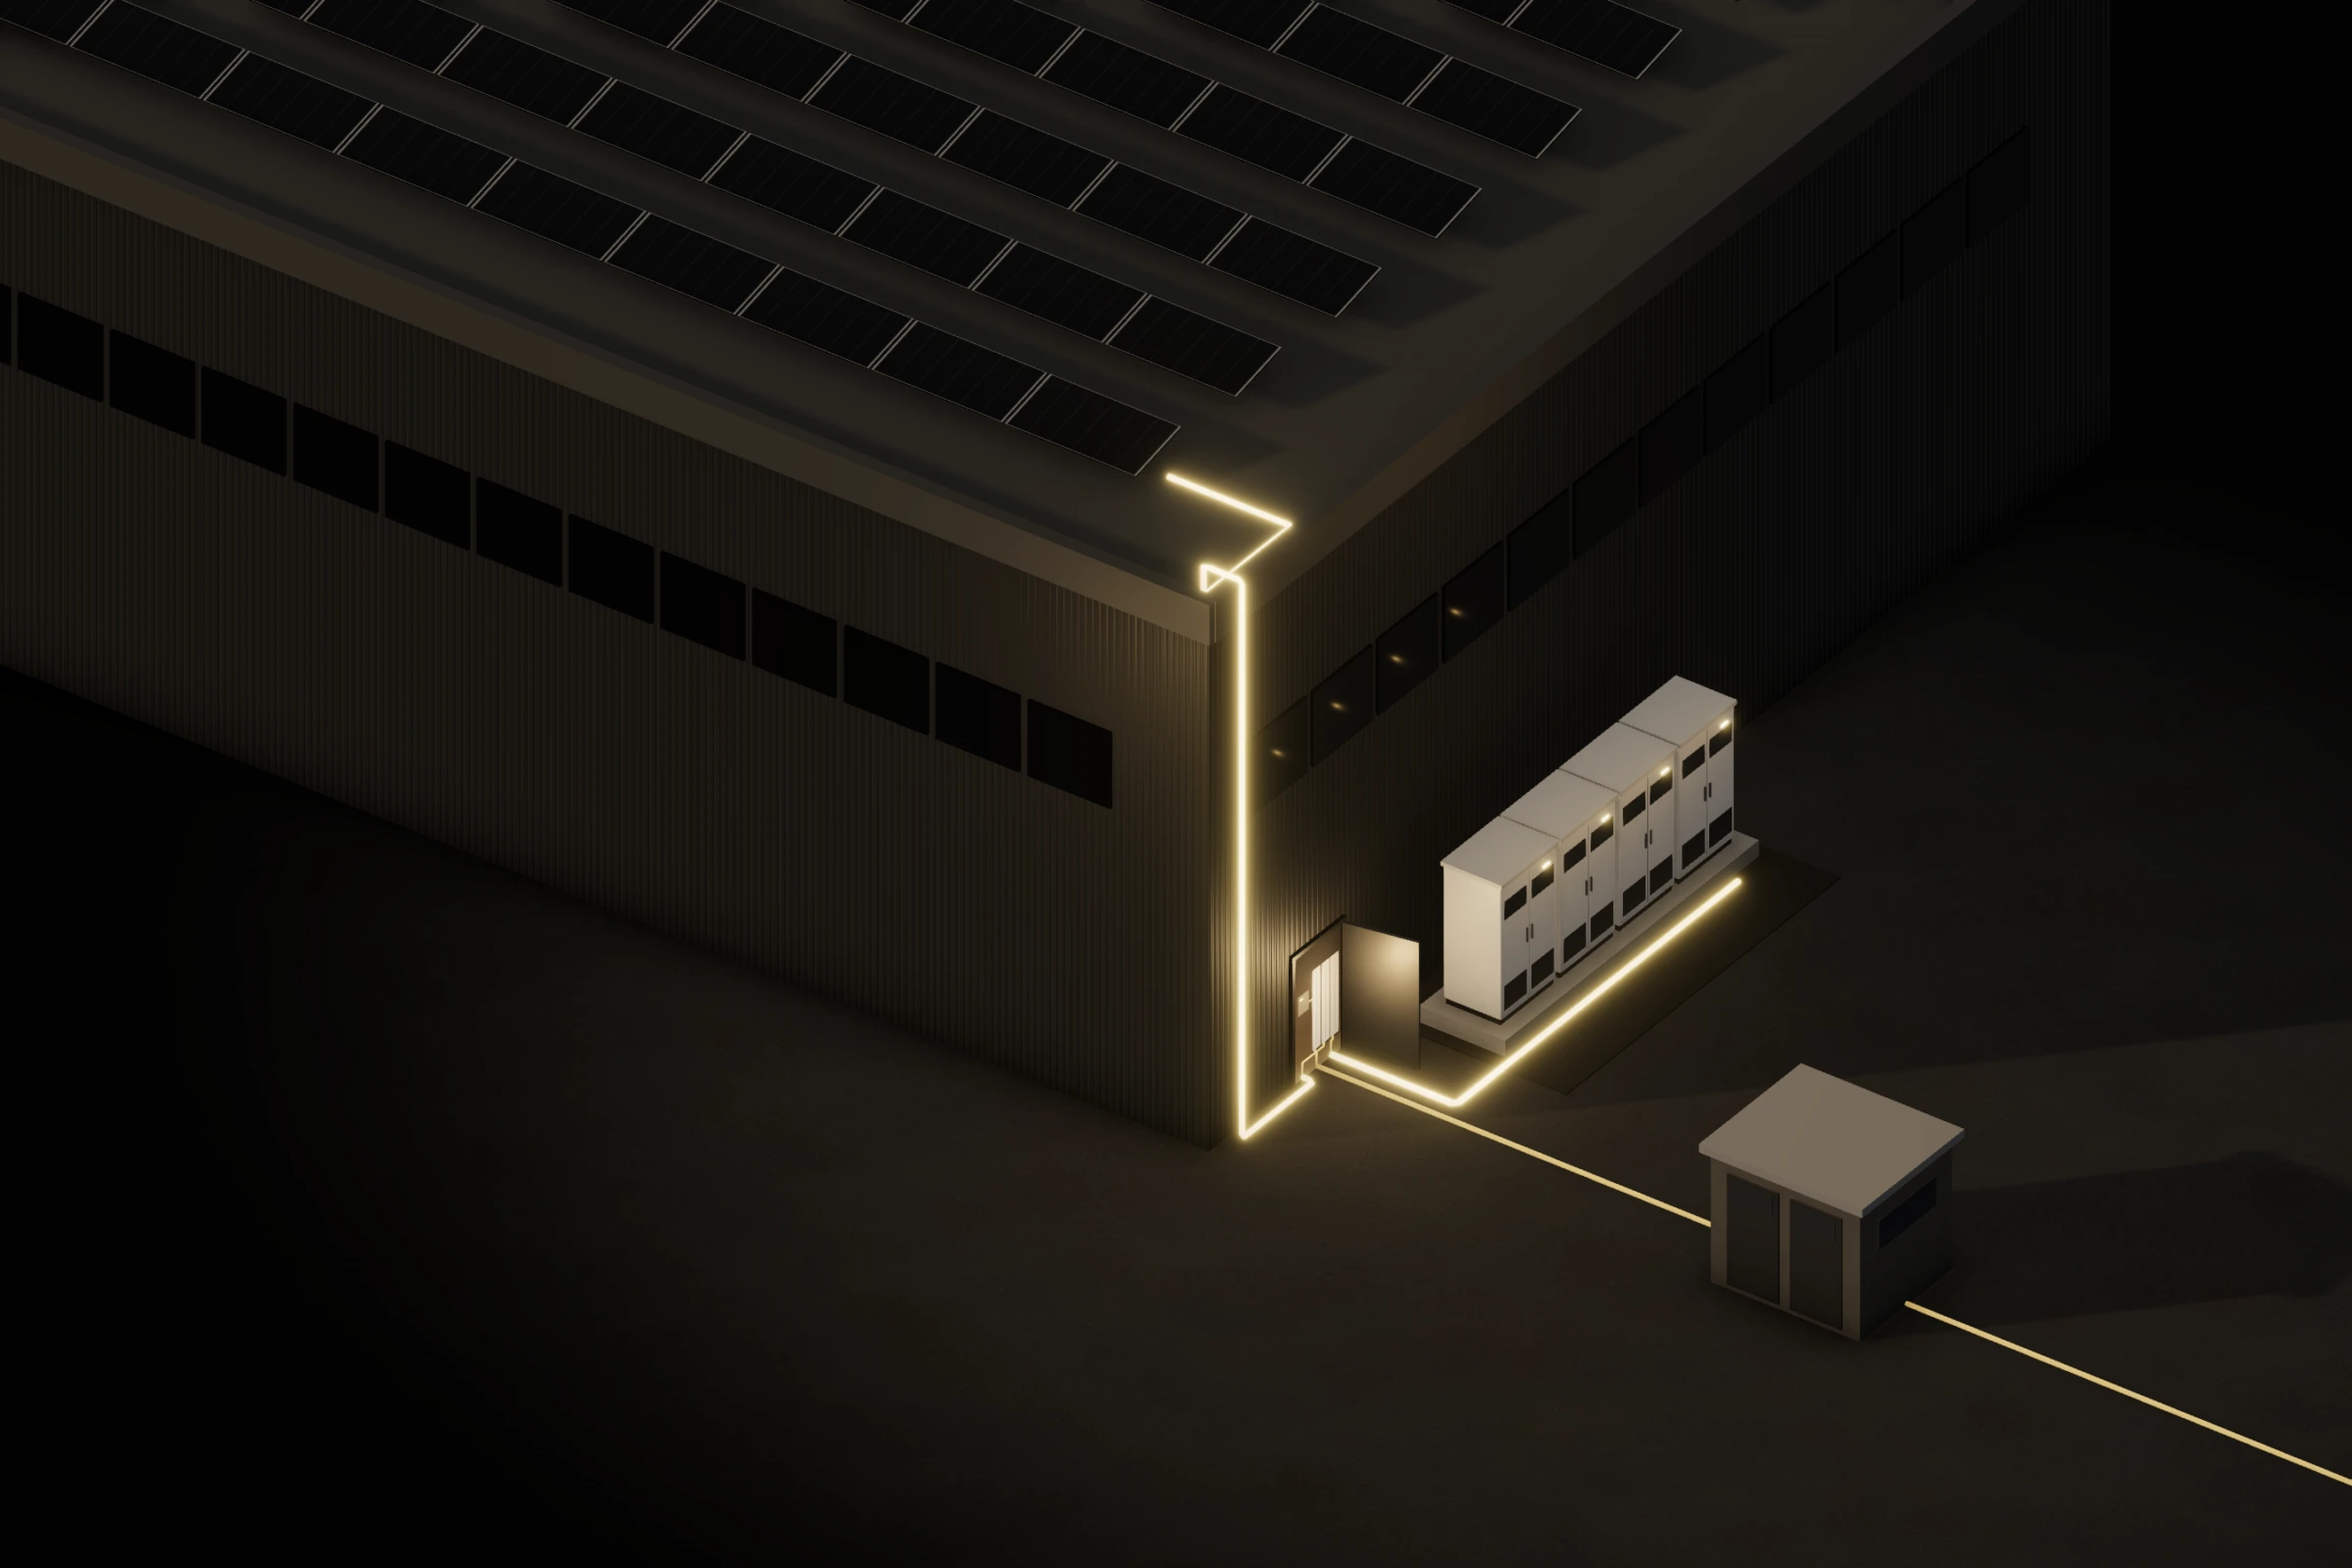
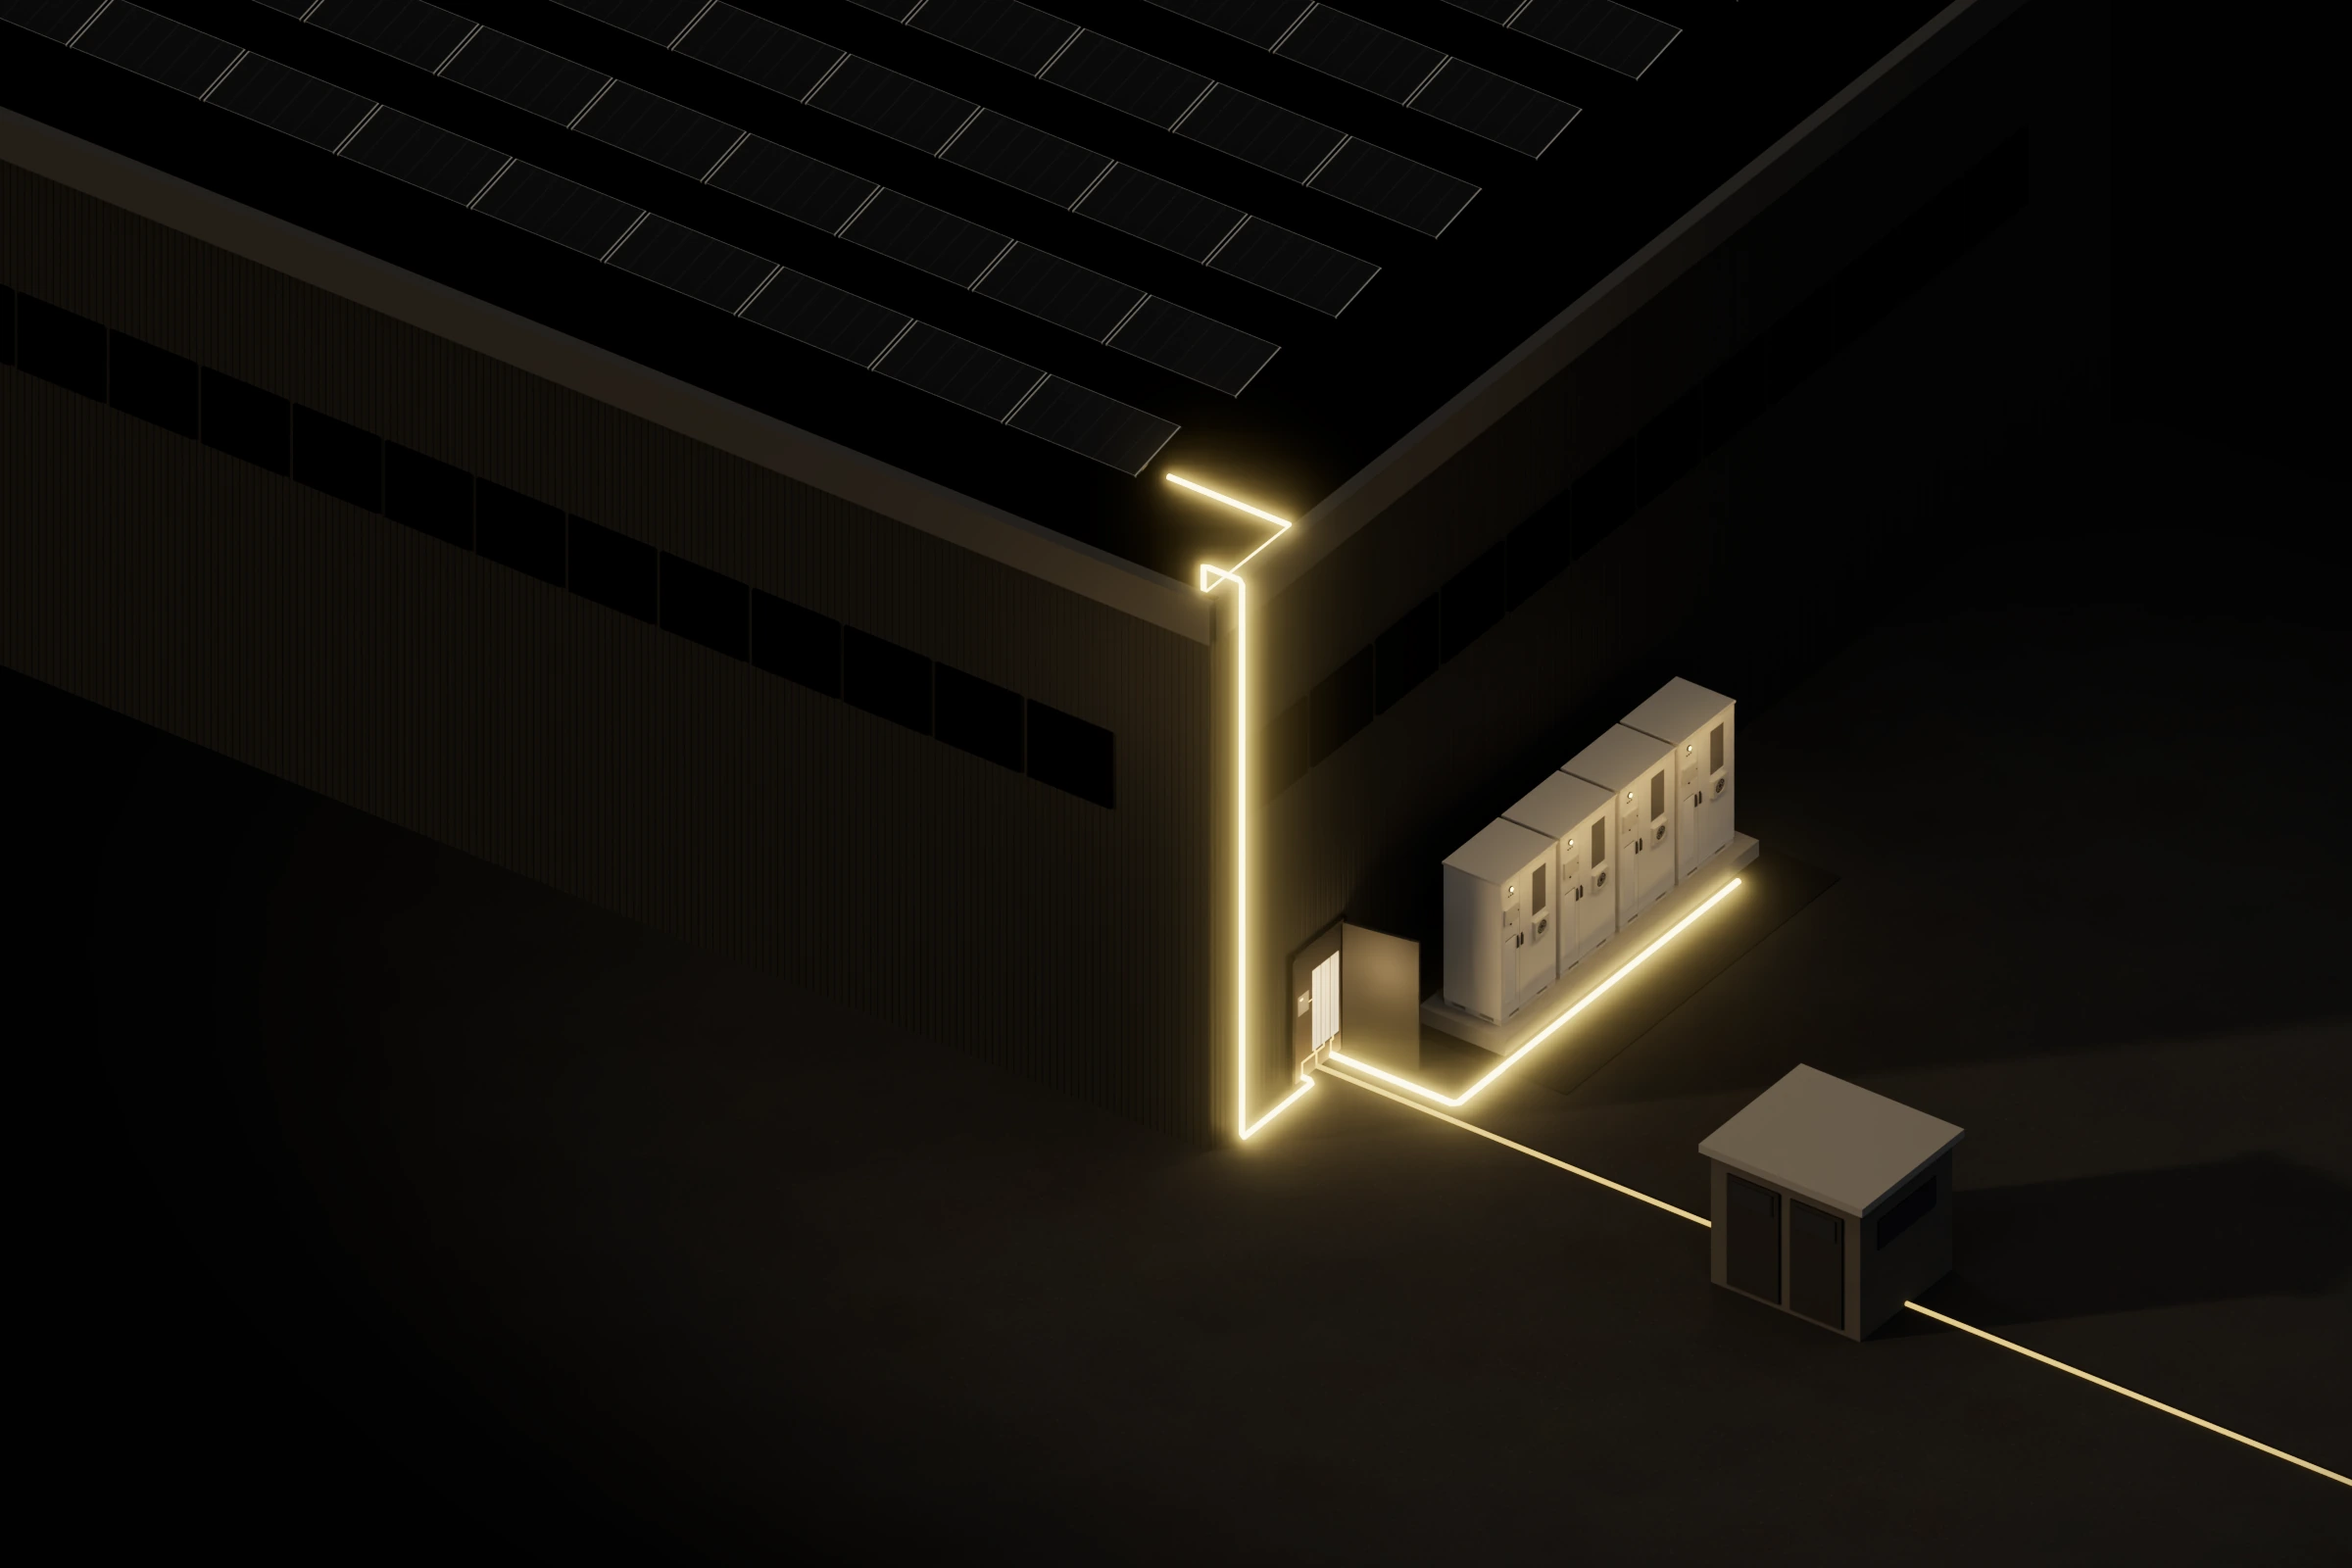
v49 (osa 4): herotausta Blender Cyclesilla (fysikaalinen valo) tarkoilla kaapeilla; CLAUDE.md v49
Sama näyttämö kuin v48 (rajaus, kaapelit, muuntamo, tarrojen ankkurit ennallaan), polunseuranta 64 näytettä + OIDN,
sävytys three.js:n ACES-käyrällä, valotus 1,12 ja hehku kuten ennen; kaappien edessä olevat valot ×4 (tuote erottuu).
Koot ja budjetit kuten render-stills: 2400 98,9 kt / 1800 64,3 kt / 1200 36,4 kt / m1170 38,7 kt / m780 21,5 kt.
Tarkistettu tuotannon otsakkeilla 1440 ja 390, FI ja ET: tarrat kohteissaan, 0 konsolivirhettä, ei vaakavieritystä.

Claude-Session: https://claude.ai/code/session_01R7oHPqGq3cgHRP3sEPpjA6

Changed region(s): [[0.0, 0.0, 0.8438, 0.75]]

diff --git a/CLAUDE.md b/CLAUDE.md
@@ -423,3 +423,43 @@ Madis 6.11.2026 (vestlus C, vastaukset kysymyksiin; päätöslokiin lisättävä
 - Perustelut, lähteet, päivitysrutiinit ja avoimet asiat: `docs/kaart/lugu.md`, osio "Uus kaart: sõlmed, aadressiotsing ja asukoha arvutused".
 - AVOIN: MML_API_KEY Netlifyyn (Madis); verkkoyhtiöiden tehomaksut lähteineen; Viron liittymissäännöt; etusivun 6. askeleen
   "ei jonota kantaverkkoon" -lause vs. Fingrid 1.6.2026 (≥ 2 MW, osin ≥ 1 MW) — perustajan päätös; natiivitarkistus uusille teksteille.
+
+## v49 — avoimen lähdekoodin 3D-putki: tarkka kaappi, Cycles-herotausta, kaappi 3D:nä ja AR:nä (Madis 6.11.2026 klo 0.58, haara v35-uusi-ilme)
+
+- Madis: kartoitettu avoimen lähdekoodin 3D-, kuva- ja videopino otetaan käyttöön tämän sivuston rakennuksessa heti.
+  Sivustolle kuuluvat osat: tarkka tuotemalli (build123d), fysikaalinen renderöinti (Blender Cycles) ja kaappi omalla pihalla
+  oikeassa koossa (model-viewer, AR). Generatiiviset kuva- ja videomallit eivät tule sivustolle: ne näyttäisivät asennuksia,
+  joita ei ole (sääntö: ei track record -väitteitä); omat kuvat tulevat kuvauksesta 9.–11.11.
+- Kaappi: `assets/3d/kaappi.glb` ← `scripts/3d/kaappi.py` (build123d Apache-2.0, trimesh MIT; `@gltf-transform/cli` weld +
+  quantize). Ulkomitat 1 350 × 1 010 × 2 450 mm (Ralosin infopaketti 26.8.2026); ulkonäkö Ralosin tuotekuvista: kapea
+  sähkötilan ovi (merkkivalo, kolme merkkilamppua, näytön kansi, avainkytkin, korkea säleikkö), leveä akkutilan ovi
+  (jäähdytysyksikön verkko ja puhallinkotelo), keskikahvat, pohjakehys trukkitaskuin, kattolevy, takasivun läpivientilevy
+  (v2.1 6.2). 7 916 kolmiota, KHR_mesh_quantization, 208 kt, ei logoja eikä tekstejä. Nodet `kaappi_<materiaali>`:
+  hero3d.js `cabinet()` liittää omat materiaalinsa nimillä (tausta/kriit/hämärä säilyvät; `kaappi_led` = merkkivalo,
+  userData.led). render-stills.mjs ja render-proc.mjs palvelevat nyt myös /assets/.
+- Herotausta `k-tausta-*`: Blender 5.0.1 Cycles samasta näyttämöstä (rajaus, kaapit, kaapelit, muuntamo ja tarrojen
+  ankkurit ennallaan; anchors-tiedostoa ei tarvitse ajaa):
+  `node scripts/blender/export-scene.mjs --modules <three-moduulit> --out X` (hero3d.js `?export=glb`: GLB + kamera, valot,
+  maan häivytys) → `python scripts/blender/render_hero.py --scene X/bg.glb --meta X/bg.json --out Y --samples 64 --world 0.8 --cab 4 --bloom 0.8`
+  (sama `bgm`:lle) → `python3 scripts/blender/encode_hero.py Y` (samat nimet, mitat ja tiedostobudjetit kuin render-stills).
+  Sävytys = three.js:n ACES-filmikäyrä, valotus 1,12 ja hehku (kynnys 0,85, voimakkuus 1,1), joten hyväksytty sävymaailma
+  säilyy; Cycles tuo pehmeät varjot, kaapeleiden ja avoimen oven heijastuvan valon ja todellisen peittovarjostuksen.
+  Maan häivytys taustaväriin tehdään maskilla sävytyksen jälkeen → kuvan reunat kuten ennen. Riippuvuudet eivät tule
+  repoon: `uv venv -p 3.11 /tmp/bpy && uv pip install --python /tmp/bpy/bin/python bpy OpenEXR pillow`.
+  Nopea luonnos ennen Cycles-ajoa edelleen `node scripts/render-stills.mjs --tausta --preview <kansio>` (three.js).
+  `--cab 4`: kaappien edessä olevat valot (hero3d.js `kaappivalo`) nelinkertaisiksi, jotta tuote erottuu pimeästä kuten
+  three.js-kuvassa; `--bloom 0.8` kapeampi hehku kuin three.js:n mip-hehku 2400 px:n kuvassa.
+  Jos hero3d.js:n näyttämö muuttuu, aja vienti ja Cycles uudelleen (2 ytimellä bg noin 15–20 min, bgm noin 5 min).
+- Prosessivideo ja pysäytyskuvat `k-proc*` renderöity uudelleen tarkalla kaapilla (three.js, muuten ennallaan).
+- Energiavarastosivu (/energiavarastot/#toimitus, /et/energiasalvestid/#tarne): lohko `.ar3d` (site.css loppu, `assets/ar.js`).
+  Kaappikuva `assets/3d/kaappi-poster.webp` (`scripts/blender/render_poster.py`, Cycles, Khronos PBR Neutral = sama sävytys
+  kuin model-viewerissä); painike avaa mallin 3D:nä (hiiri/kosketus kääntää); puhelimessa "Näytä omalla pihalla" /
+  "Vaata oma hoovis" asettaa kaapin kamerakuvaan oikeassa koossa (`ar-scale="fixed"`). model-viewer 4.4.0 (Google,
+  Apache-2.0, 9.10.2026) omalta palvelimelta `assets/vendor/`, ladataan vasta painikkeesta (ei vaikuta LCP:hen eikä
+  muihin sivuihin). AR-tilat `webxr` (Android Chrome) ja `quick-look` (iPhone; USDZ syntyy selaimessa samasta mallista);
+  Googlen Scene Viewer -sovellus jätetty pois (ei kolmatta osapuolta). Dekooderien osoitteet ohjataan omaan kansioon;
+  vendoroidusta tiedostosta poistettu yksi latauksenaikainen WebAssembly-käännös (meshopt, ks. assets/vendor/README.txt),
+  jotta CSP pysyy ilman wasm-unsafe-evalia. Tarkistettu tuotannon otsakkeilla: 0 konsolivirhettä, 0 ulkoista pyyntöä.
+  Sivulla ei mallinimeä eikä mittoja (perustajan päätös 4.11.2026): "oikeassa koossa", "mitat ovat valmistajan tiedoista".
+- AVOIN: natiivitarkistus uusille riveille (FI Martin, ET Madis); AR kokeiltava oikealla puhelimella Netlify-esikatselussa
+  (Android Chrome ja iPhone Safari) — automaattitesti kattaa 3D-näkymän, latauksen ja ulkoiset pyynnöt, ei kameraa.
